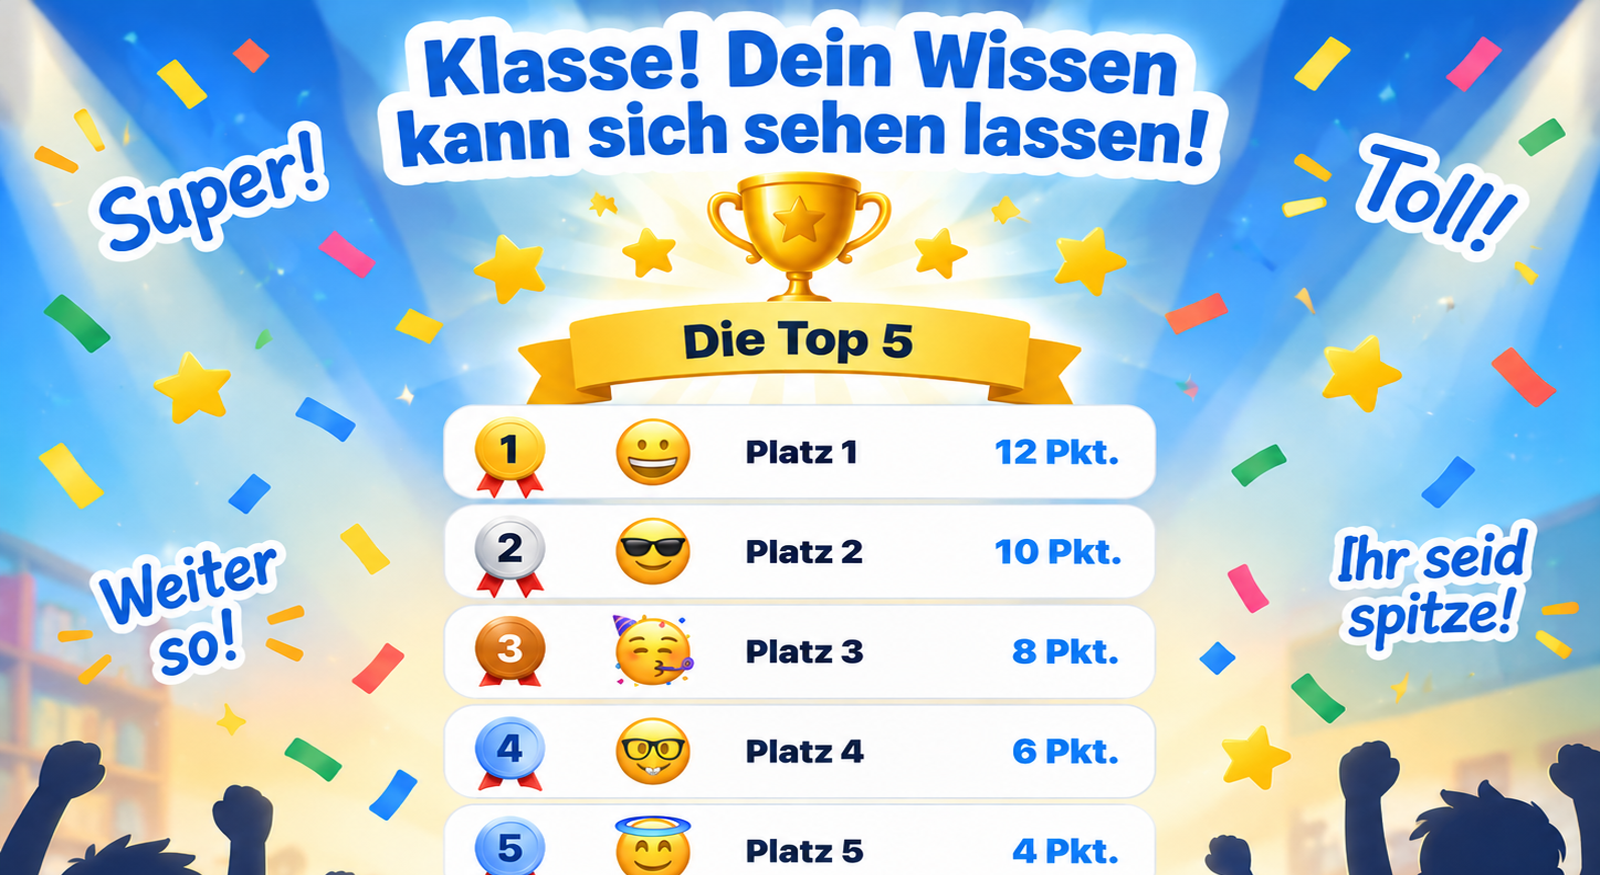
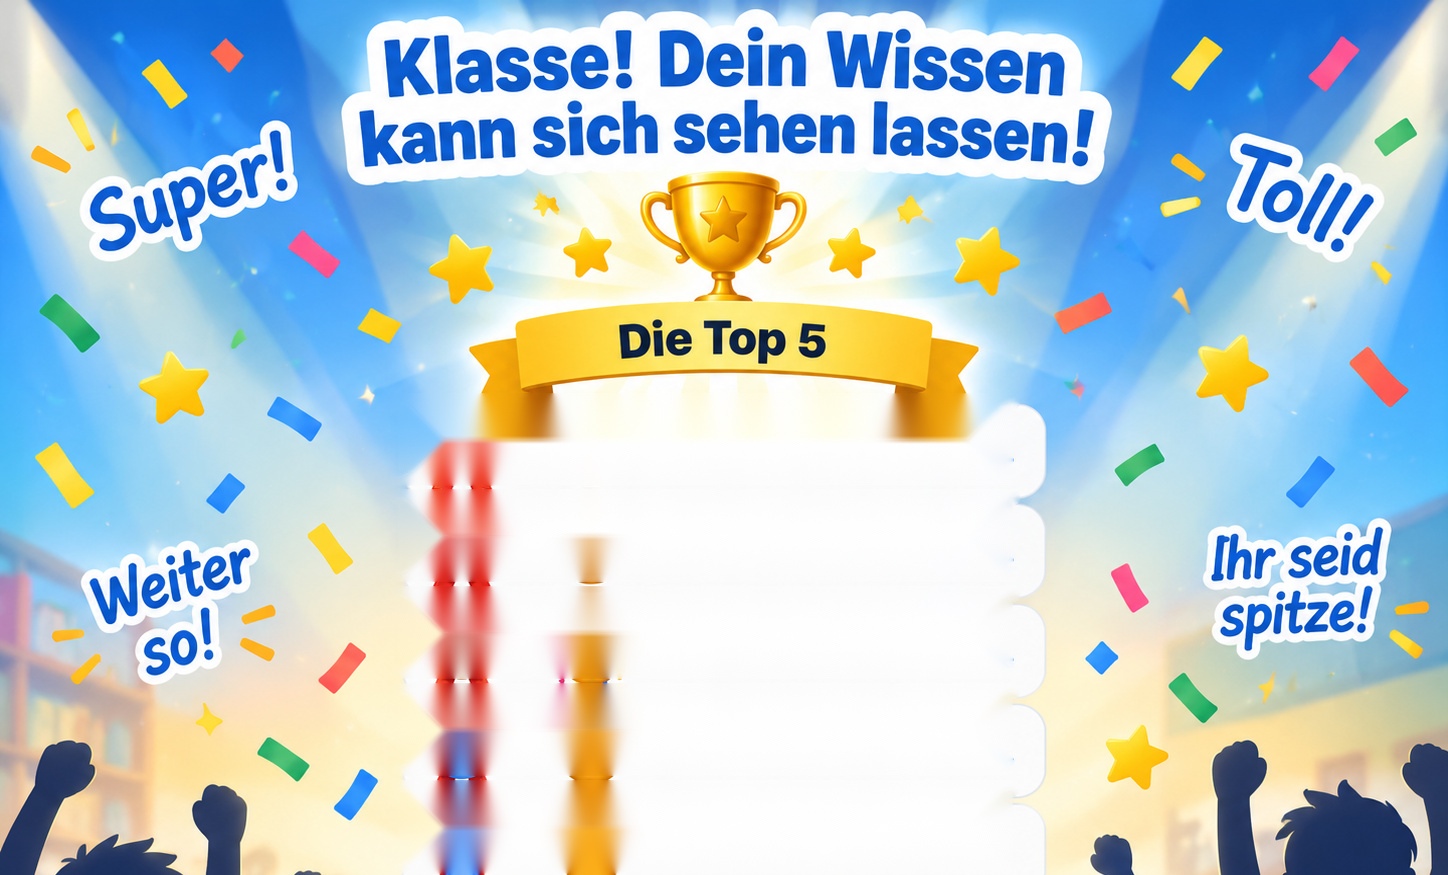
Add files via upload

diff --git a/display.html b/display.html
@@ -10,7 +10,7 @@
   height:100vh;
   min-height:100vh;
   overflow:hidden;
-  background:#eef6ff url("abschluss-gesamtbewertung.png") center center / cover no-repeat;
+  background:#eef6ff url("abschluss-gesamtbewertung-ohne-button.png") center center / cover no-repeat;
   display:flex;
   align-items:center;
   justify-content:center;
@@ -109,6 +109,15 @@ body.final-display .dynamicBoard{
   width:min(42vw,720px)!important;
 }
 body.final-display .homeBtn{display:none!important}
+</style>
+
+<style id="final-single-leaderboard-v35">
+.finalCelebration{
+  background:#eef6ff url("abschluss-gesamtbewertung-ohne-button.png") center center / cover no-repeat!important;
+}
+.finalCelebration .dynamicBoard{
+  z-index:10!important;
+}
 </style>
 </head><body><div class="wrap"><div class="head"><div class="logo">Antwort!</div><div class="spacer"></div><div class="counter">📷 <span id="count">0</span> Antworten</div></div><main id="main" class="main"></main></div>
 <script src="https://unpkg.com/peerjs@1.5.4/dist/peerjs.min.js"></script><script>

diff --git a/play.html b/play.html
@@ -49,7 +49,7 @@ body{margin:0;background:var(--bg);color:var(--ink);font-family:-apple-system,Bl
   height:100vh;
   min-height:100vh;
   overflow:hidden;
-  background:#eef6ff url("abschluss-gesamtbewertung.png") center center / cover no-repeat;
+  background:#eef6ff url("abschluss-gesamtbewertung-ohne-button.png") center center / cover no-repeat;
   display:flex;
   align-items:center;
   justify-content:center;
@@ -213,6 +213,15 @@ body{margin:0;background:var(--bg);color:var(--ink);font-family:-apple-system,Bl
   width:100%!important;
   min-width:0!important;
   margin:0!important;
+}
+</style>
+
+<style id="final-single-leaderboard-v35">
+.finalCelebration{
+  background:#eef6ff url("abschluss-gesamtbewertung-ohne-button.png") center center / cover no-repeat!important;
+}
+.finalCelebration .dynamicBoard{
+  z-index:10!important;
 }
 </style>
 </head>

diff --git a/README.md b/README.md
@@ -204,3 +204,11 @@ Das iPhone dient ausschließlich zum Scannen der Kinderkarten.
 - Der Renderer prüft jetzt alle Elemente sicher, bevor er sie verändert.
 - Das Jubelbild wird am Ende zuverlässig in den großen Hauptbereich eingesetzt.
 - Rechts bleibt ausschließlich der Home-Button.
+
+
+## v35 – keine doppelte Siegerbewertung
+- Ursache gefunden: Das Jubelbild selbst enthielt bereits eine statische Beispiel-Top-5.
+- Darüber wurde zusätzlich die echte, dynamische Top-5 gelegt – dadurch erschien die Siegerbewertung doppelt.
+- Das Hintergrundbild wurde deshalb technisch bereinigt: Die statischen Top-5-Zeilen wurden entfernt.
+- Jetzt wird **nur noch die echte dynamische Top-5** angezeigt.
+- Die rechte Spalte enthält weiterhin nur den Home-Button.
